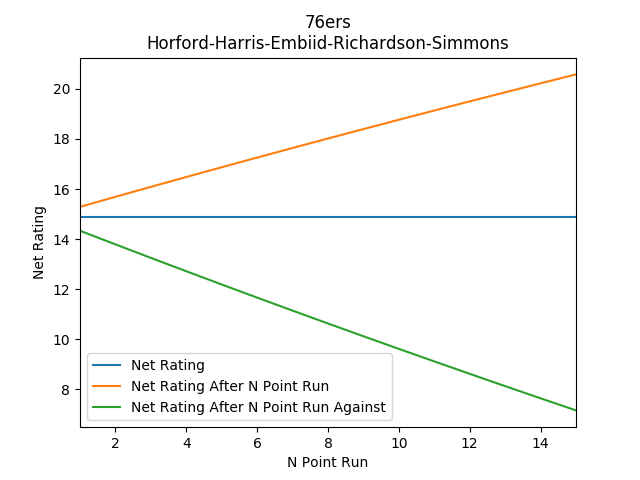
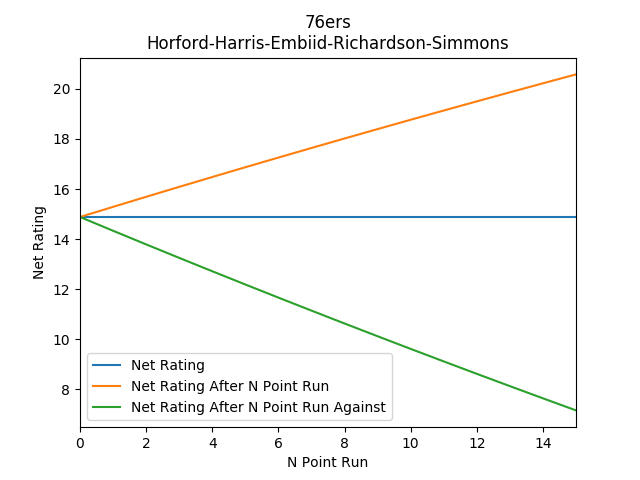
Update plots legend

diff --git a/five_man_net_rating/net_rtg_run.py b/five_man_net_rating/net_rtg_run.py
@@ -107,7 +107,8 @@ for season in ['2019-20']: #'2018-19',
         plt.title('{}\n{}'.format(team_lineup['TEAM'], team_lineup['LINEUP']))
         plt.xlabel('N Point Run')
         plt.ylabel('Net Rating')
-        plt.xlim(1, 15)
+        plt.xlim(0, 15)
+
         plt.legend()
 
         plt.savefig('plots/{}.png'.format(team_lineup['TEAM'].replace(' ','_')))
